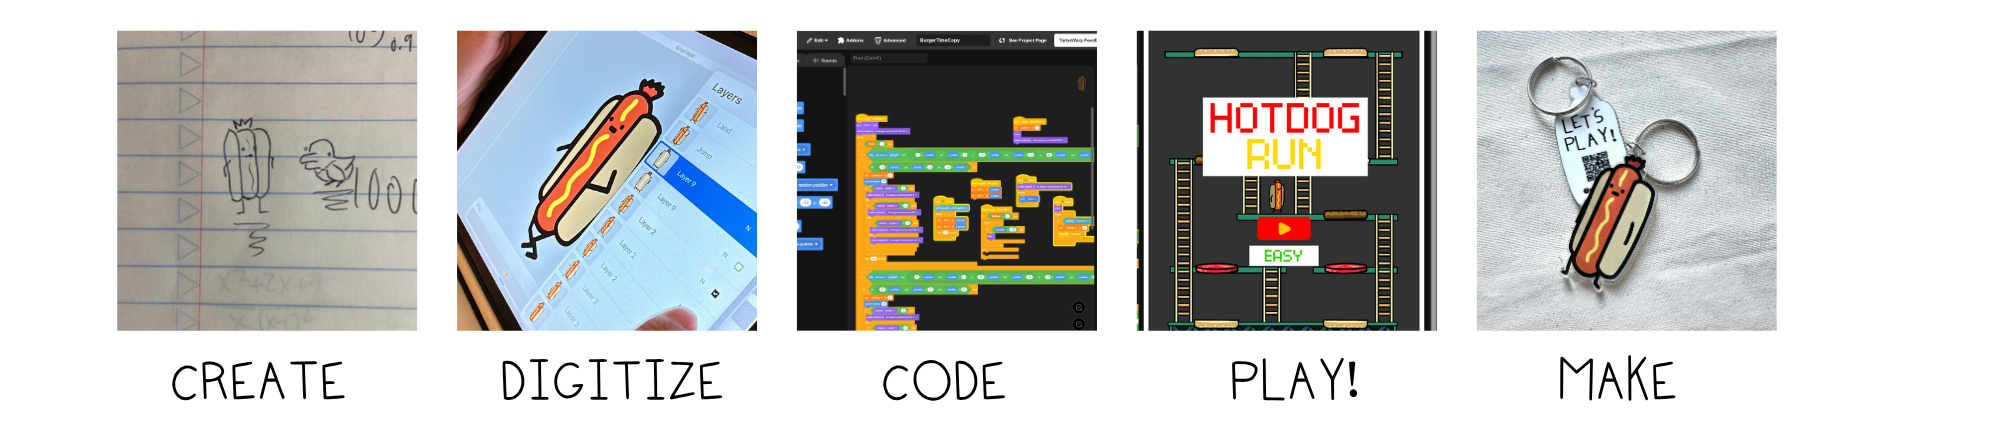
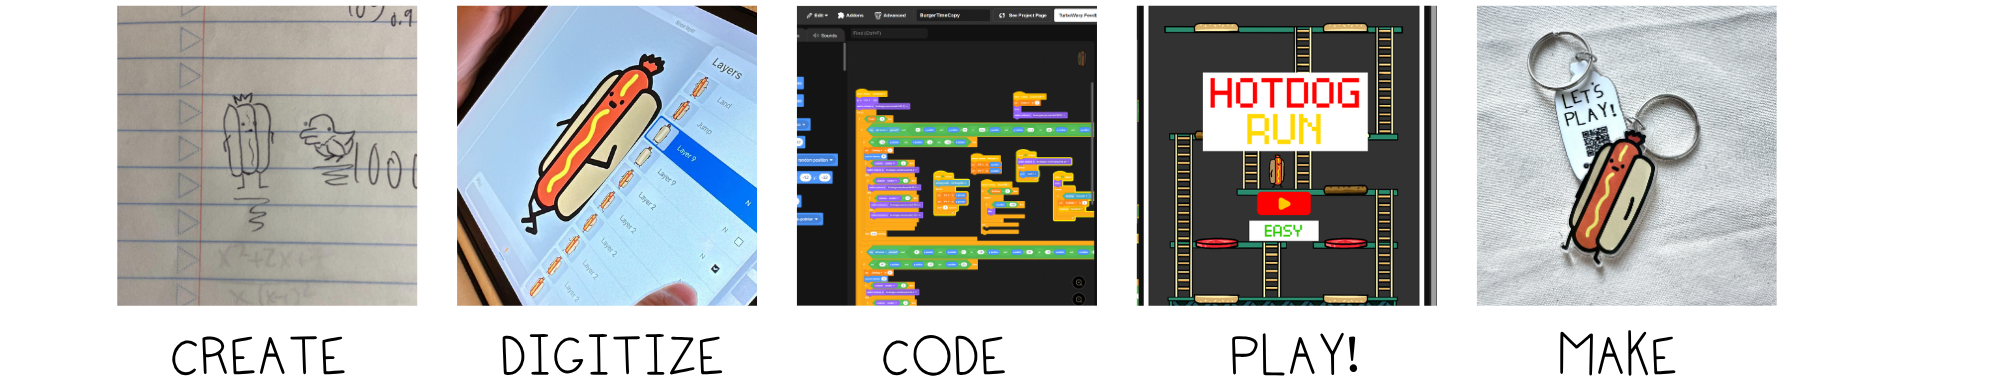
Fix loop strip: tighter crop + CSS gap removal

diff --git a/style.css b/style.css
@@ -1439,19 +1439,33 @@ footer {
 .loop-strip {
   width: 100%;
   margin: 0;
+  padding: 0;
   line-height: 0;
+  font-size: 0;
+  overflow: hidden;
 }
 
 .loop-strip img {
   width: 100%;
+  height: auto;
   display: block;
+  margin: 0;
+  padding: 0;
 }
 
 /* ── Hero handwritten logo ── */
+.hero {
+  padding: 0.75rem 1.5rem 1rem;
+}
+
 .hero-logo {
   max-width: 420px;
   width: 80%;
   display: block;
   margin: 0 auto 0.5rem;
   filter: brightness(0) invert(1);
+}
+
+.hero p {
+  font-size: clamp(1rem, 2.5vw, 1.4rem);
 }
